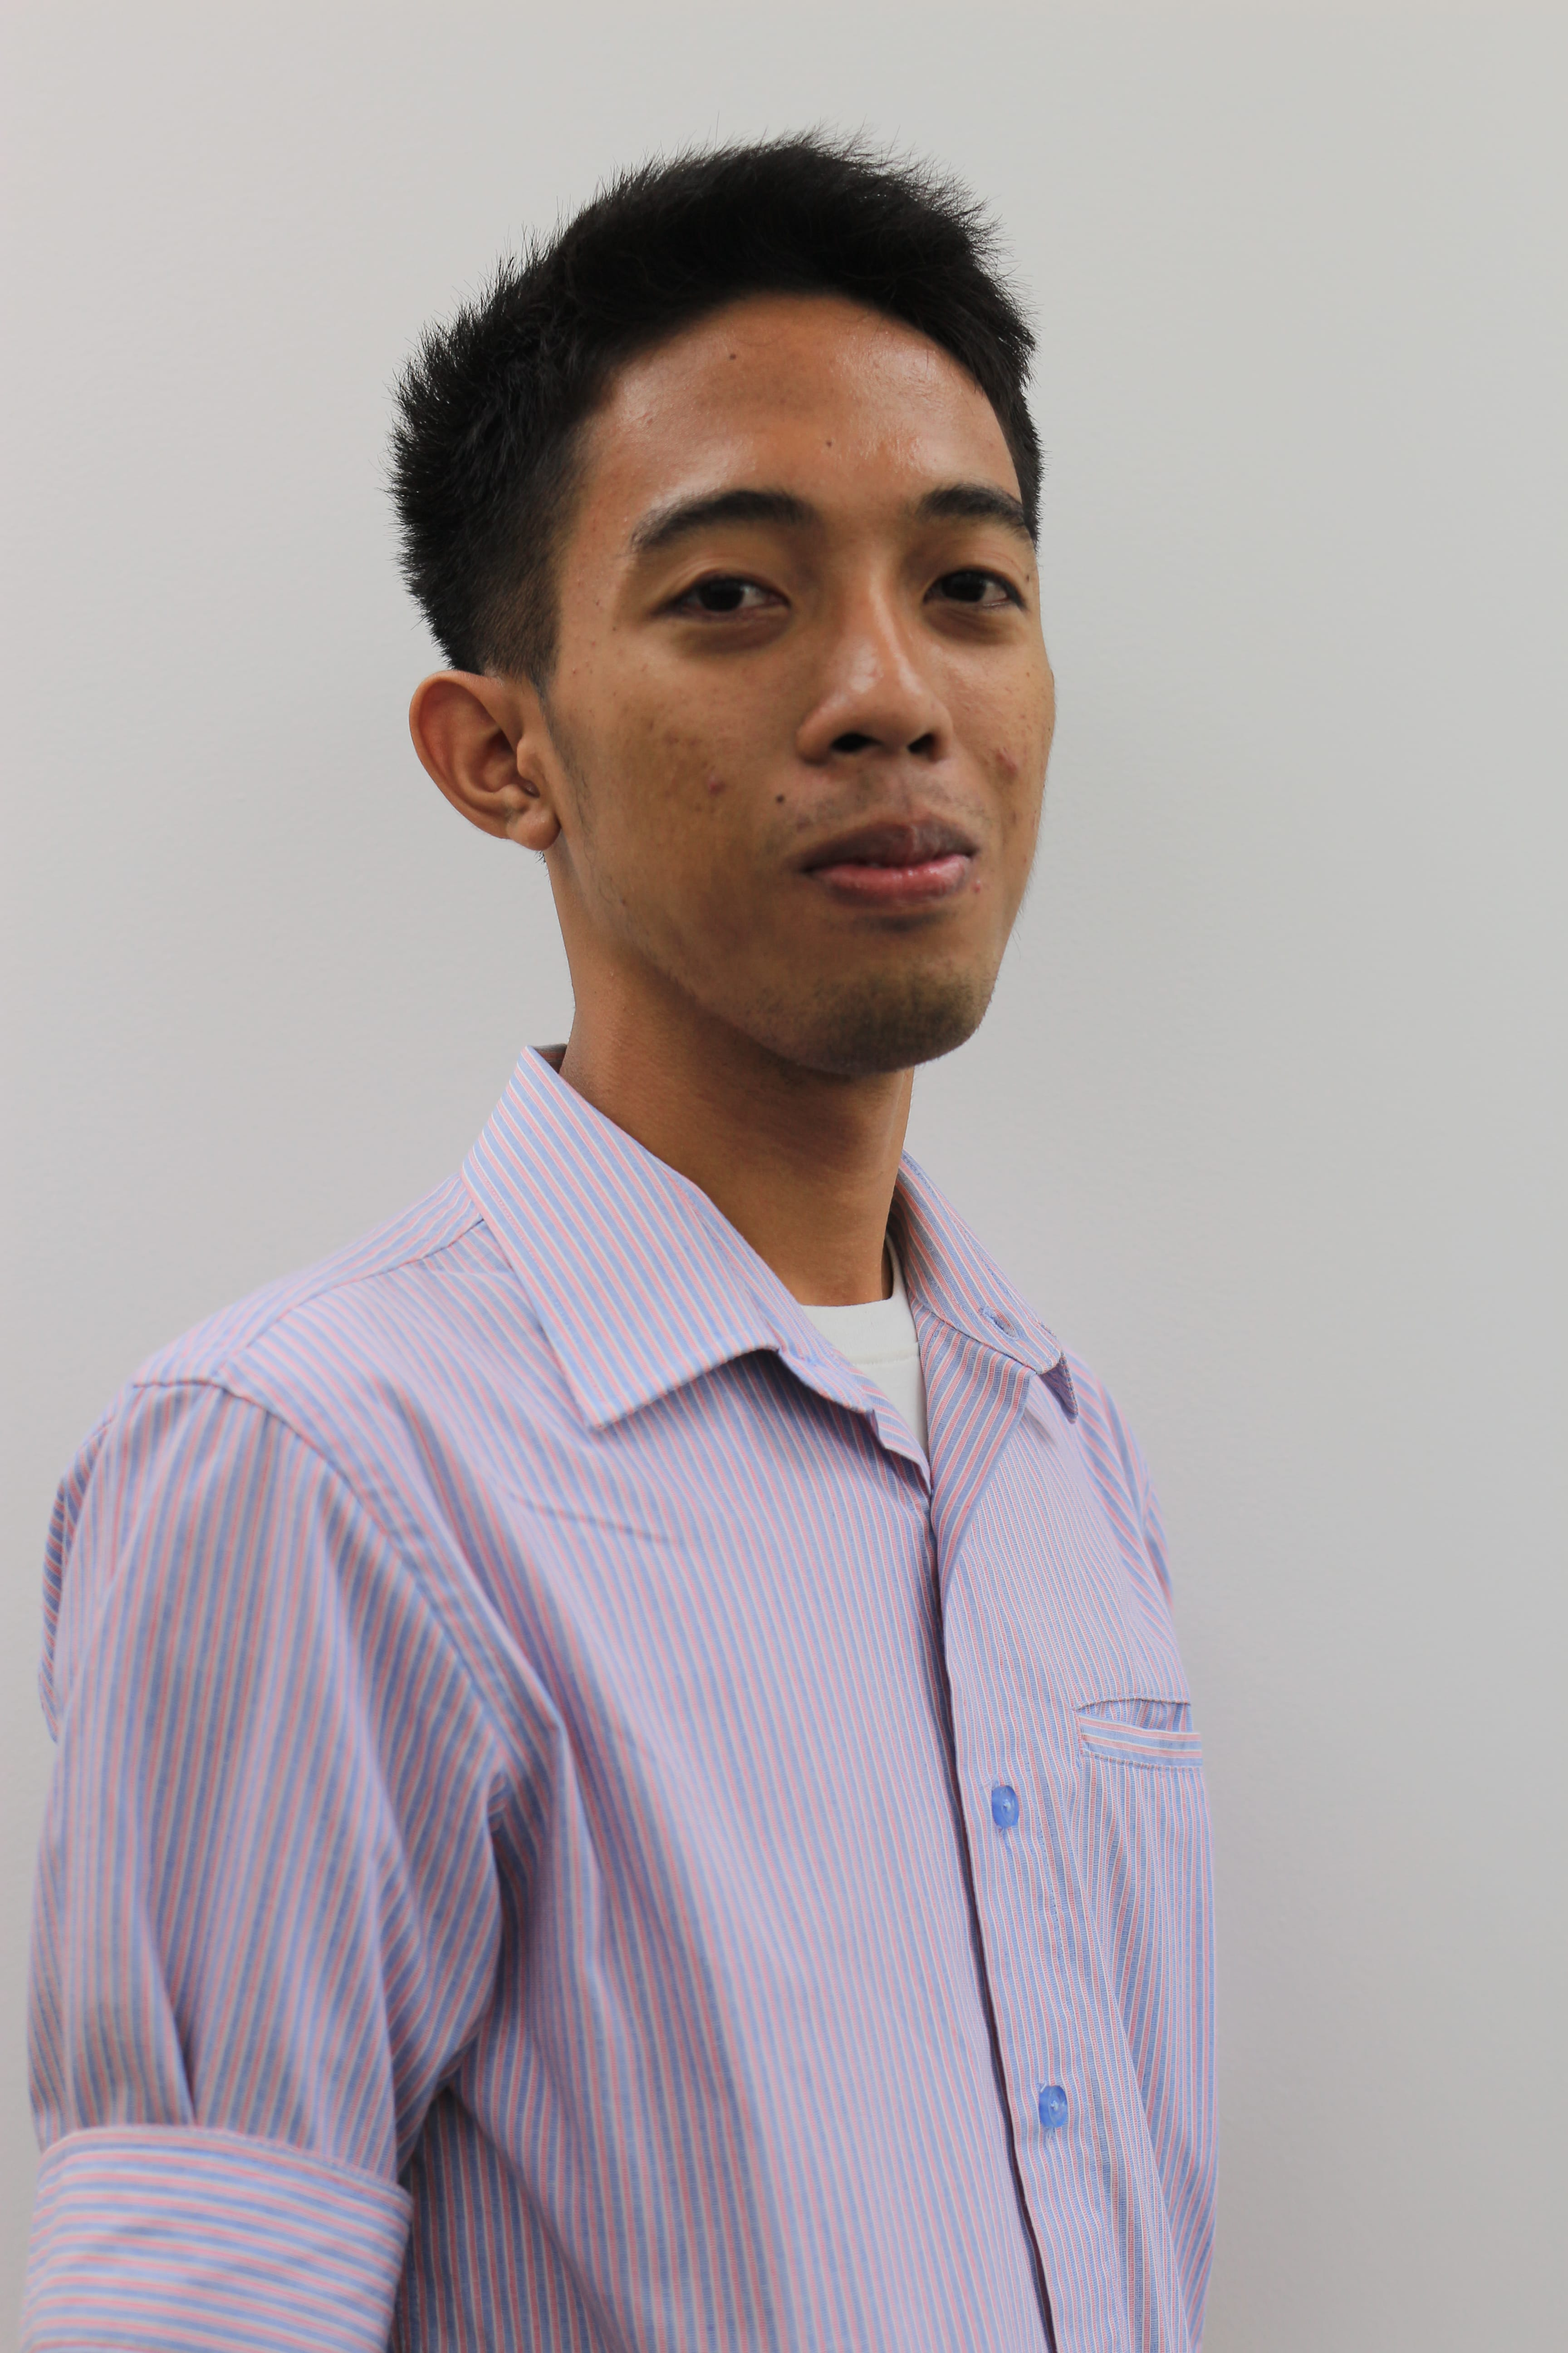
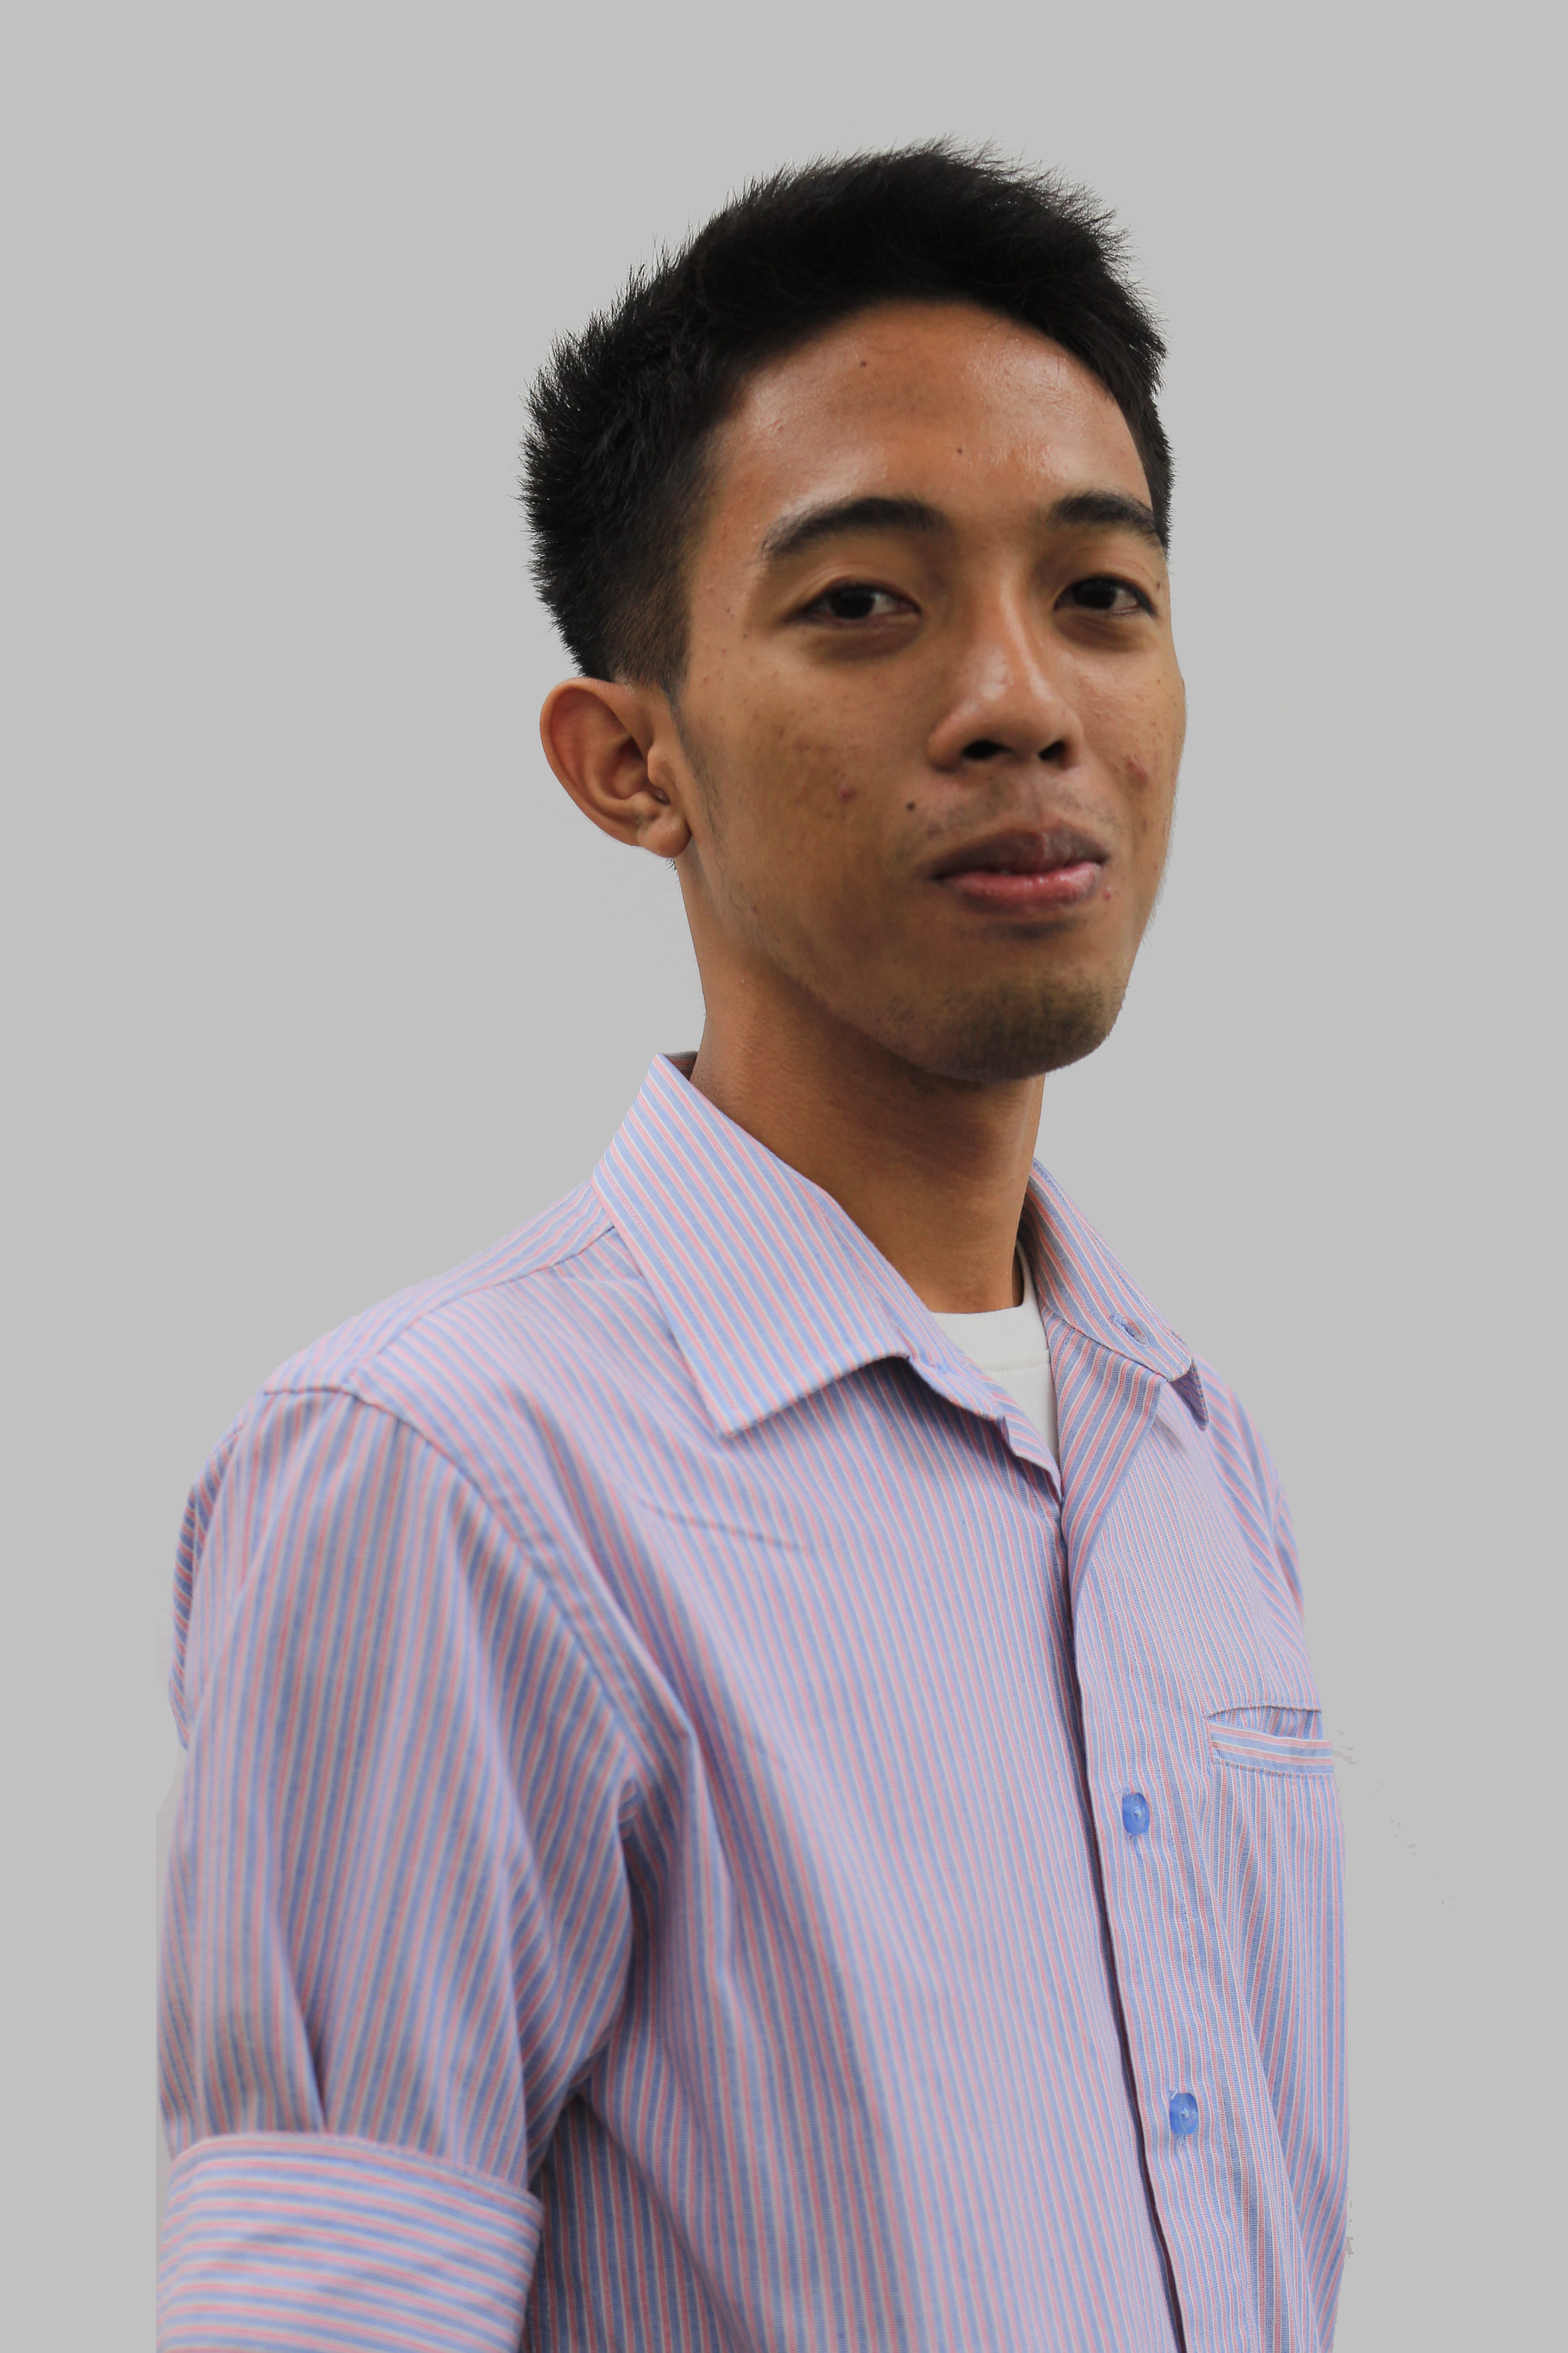
Skills flex css

diff --git a/src/Components/Skills/Skills.scss b/src/Components/Skills/Skills.scss
@@ -2,22 +2,28 @@
     // skill icons
     .skills {
         &__list {
-            margin: 0px !important;
+            display: flex;
+            flex-wrap: wrap;
+            list-style: none;
+            justify-content: space-between;
+            &:after {
+                content: "";
+                flex: auto;
+            }
             li {
-                width: 55px !important;
-                display: inline-block !important;
-                vertical-align: top !important;
-                margin: 0px 16px 5px 17px !important;
+                flex: 0 0 90px;
+                height: 90px;
+                margin: 5px;
             }
         }
         &__logo {
-            height: 90px !important;
+            height: 70px !important;
             position: relative !important;
             img {
-                max-height: 100% !important;
+                max-height: 60% !important;
                 max-width: 100% !important;
-                width: auto !important;
-                height: auto !important;
+                // width: auto !important;
+                // height: auto !important;
                 position: absolute !important;
                 top: 0 !important;
                 bottom: 0 !important;

diff --git a/src/Components/About/About.js b/src/Components/About/About.js
@@ -2,7 +2,7 @@ import React, { Component } from 'react';
 
 import './About.scss';
 
-import profileImg from './img/ai.jpg';
+import profileImg from './img/profile.jpg';
 
 class About extends Component {
     render() {
